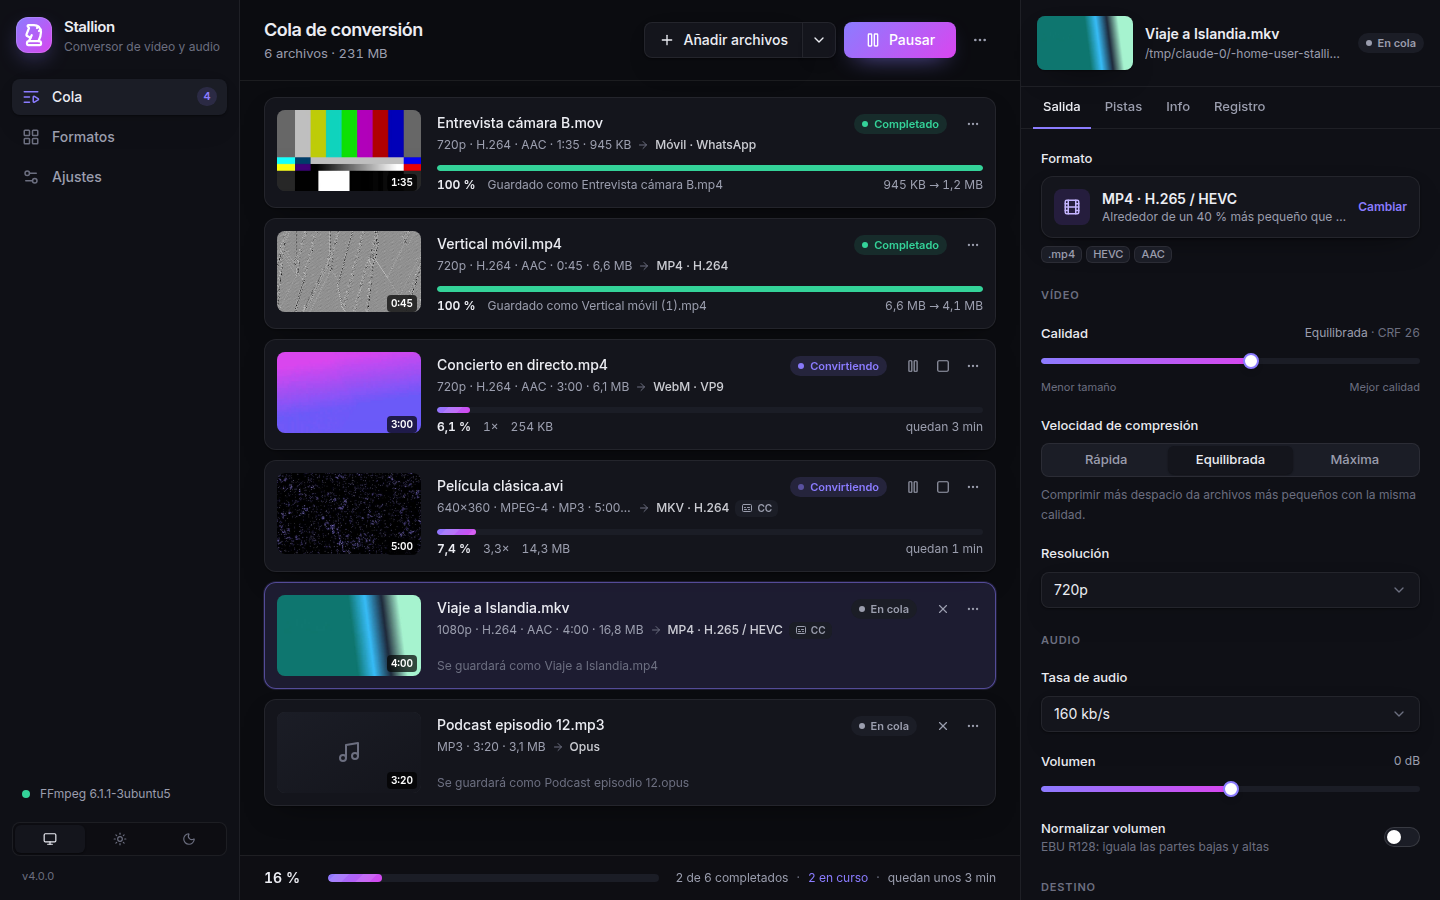
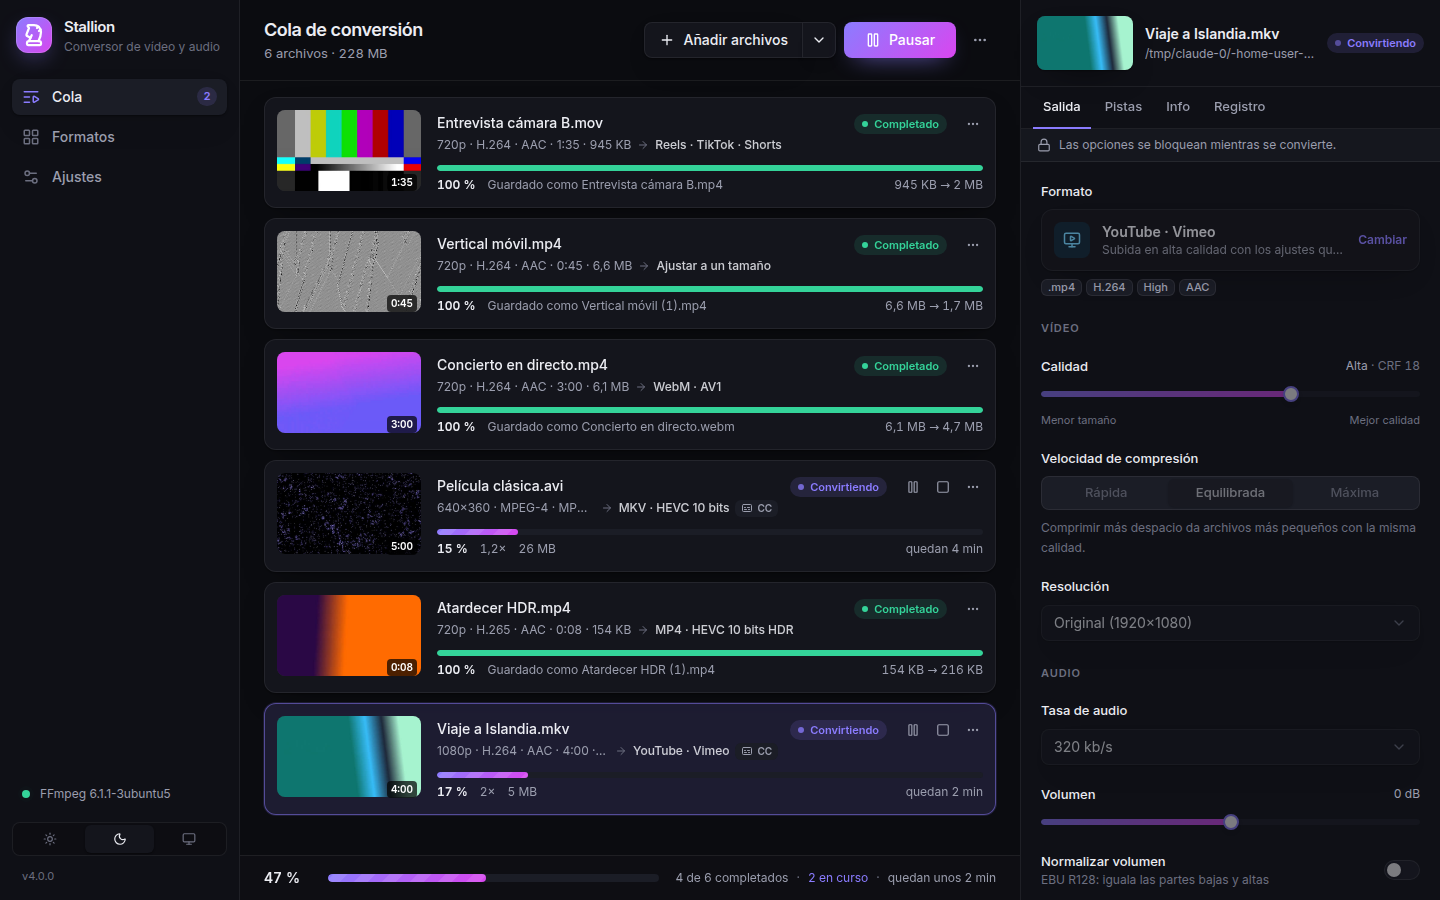
Make the light theme the default
The light theme is now the default for new installs (web, desktop and
Docker); dark mode stays available as an option. The pre-paint theme
script, the HTML color-scheme/theme-color and the desktop window
background follow the light default so there is no dark flash, and the
theme switch lists Light first. Native controls follow the chosen theme
through color-scheme.

README screenshots are retaken in light with the modern formats; one
dark-mode shot remains.

diff --git a/frontend/public/theme-init.js b/frontend/public/theme-init.js
@@ -1,10 +1,10 @@
-// Apply the saved theme before first paint (external file to satisfy the CSP)
+// Apply the saved theme before first paint (external file to satisfy the CSP); light is the default
 (function () {
   try {
-    var saved = localStorage.getItem("stallion-theme") || "system";
+    var saved = localStorage.getItem("stallion-theme") || "light";
     var dark = saved === "dark" || (saved === "system" && window.matchMedia("(prefers-color-scheme: dark)").matches);
     document.documentElement.classList.toggle("dark", dark);
   } catch (e) {
-    document.documentElement.classList.add("dark");
+    // storage may be unavailable: keep the light default
   }
 })();

diff --git a/frontend/src/components/Sidebar.tsx b/frontend/src/components/Sidebar.tsx
@@ -42,11 +42,11 @@ function NavItem({
 
 function ThemeSwitch() {
   const t = useT();
-  const theme = useStore((s) => s.settings?.theme ?? "system");
+  const theme = useStore((s) => s.settings?.theme ?? "light");
   const options = [
-    { value: "system", icon: <Monitor />, label: t("theme.system") },
     { value: "light", icon: <Sun />, label: t("theme.light") },
     { value: "dark", icon: <Moon />, label: t("theme.dark") },
+    { value: "system", icon: <Monitor />, label: t("theme.system") },
   ] as const;
   return (
     <div className="flex rounded-lg border border-border bg-bg/60 p-0.5 max-lg:flex-col">

diff --git a/frontend/index.html b/frontend/index.html
@@ -1,10 +1,10 @@
 <!doctype html>
-<html lang="en" class="dark">
+<html lang="en">
   <head>
     <meta charset="UTF-8" />
     <meta name="viewport" content="width=device-width, initial-scale=1.0" />
-    <meta name="color-scheme" content="dark light" />
-    <meta name="theme-color" content="#0b0c10" />
+    <meta name="color-scheme" content="light" />
+    <meta name="theme-color" content="#f4f4f6" />
     <link rel="icon" type="image/svg+xml" href="/favicon.svg" />
     <script src="/theme-init.js"></script>
     <title>Stallion</title>

diff --git a/frontend/src/components/SettingsView.tsx b/frontend/src/components/SettingsView.tsx
@@ -49,9 +49,9 @@ export function SettingsView() {
                 value={settings.theme}
                 onValueChange={(theme) => void saveSettings({ theme })}
                 options={[
-                  { value: "system", label: t("theme.system") },
                   { value: "light", label: t("theme.light") },
                   { value: "dark", label: t("theme.dark") },
+                  { value: "system", label: t("theme.system") },
                 ]}
               />
             }

diff --git a/frontend/src/index.css b/frontend/src/index.css
@@ -5,6 +5,7 @@
 @custom-variant dark (&:where(.dark, .dark *));
 
 :root {
+  color-scheme: light;
   --bg: #f4f4f6;
   --panel: #fafafb;
   --surface: #ffffff;
@@ -27,6 +28,7 @@
 }
 
 .dark {
+  color-scheme: dark;
   --bg: #0b0c10;
   --panel: #0f1016;
   --surface: #14151c;

diff --git a/frontend/src/App.tsx b/frontend/src/App.tsx
@@ -85,7 +85,7 @@ function useTheme() {
     media.addEventListener("change", apply);
     return () => media.removeEventListener("change", apply);
   }, [theme]);
-  return theme ?? "system";
+  return theme ?? "light";
 }
 
 function useDropGuard() {

diff --git a/stallion/settings.py b/stallion/settings.py
@@ -26,7 +26,7 @@ class Settings(BaseModel):
     overwrite: bool = False
     delete_partial: bool = True
     notify_on_finish: bool = True
-    theme: Literal["system", "dark", "light"] = "system"
+    theme: Literal["system", "dark", "light"] = "light"
     language: Literal["auto", "es", "en"] = "auto"
 
 

diff --git a/stallion/desktop.py b/stallion/desktop.py
@@ -21,7 +21,8 @@ from .api import create_app
 from .config import AppConfig
 from .fs import AUDIO_EXTENSIONS, SUBTITLE_EXTENSIONS, VIDEO_EXTENSIONS
 
-WINDOW_BACKGROUND = "#0b0c10"
+# Light theme background: avoids a dark flash before the UI paints
+WINDOW_BACKGROUND = "#f4f4f6"
 
 
 def _free_port() -> int:

diff --git a/README.md b/README.md
@@ -2,7 +2,7 @@
 
 Modern video and audio converter powered by FFmpeg. The same web-based UI runs as a **desktop app** (native window) or as a **self-hosted service in Docker**.
 
-![Stallion conversion queue](docs/screenshots/queue-dark.png)
+![Stallion conversion queue](docs/screenshots/queue-light.png)
 
 ## Features
 
@@ -19,12 +19,12 @@ Modern video and audio converter powered by FFmpeg. The same web-based UI runs a
 - **Audio tracks**: pick the language you want; remuxing keeps every track.
 - **Subtitles**: burn them in or embed them as a track, from embedded tracks (text or PGS/VobSub images) or external `.srt/.ass/.ssa/.vtt` files. A matching `.srt` next to the video is picked up automatically, Windows-1252 files are detected, and a style editor shows a live preview.
 - **Queue**: parallel conversions, pause/resume/cancel/retry, live progress with speed and ETA, thumbnails, batch editing, and the exact `ffmpeg` command for every job.
-- **Spanish and English UI**, dark and light themes, keyboard shortcuts.
+- **Spanish and English UI**, light theme by default with an optional dark mode, keyboard shortcuts.
 - **Headless CLI** for scripts and servers.
 
-| Tracks and subtitles | Formats | Light theme |
+| Tracks and subtitles | Formats | Dark mode |
 | --- | --- | --- |
-| ![Tracks](docs/screenshots/tracks-dark.png) | ![Format picker](docs/screenshots/formats-dark.png) | ![Light theme](docs/screenshots/queue-light.png) |
+| ![Tracks](docs/screenshots/tracks-light.png) | ![Formats](docs/screenshots/formats-light.png) | ![Dark mode](docs/screenshots/queue-dark.png) |
 
 ## Quick start
 
